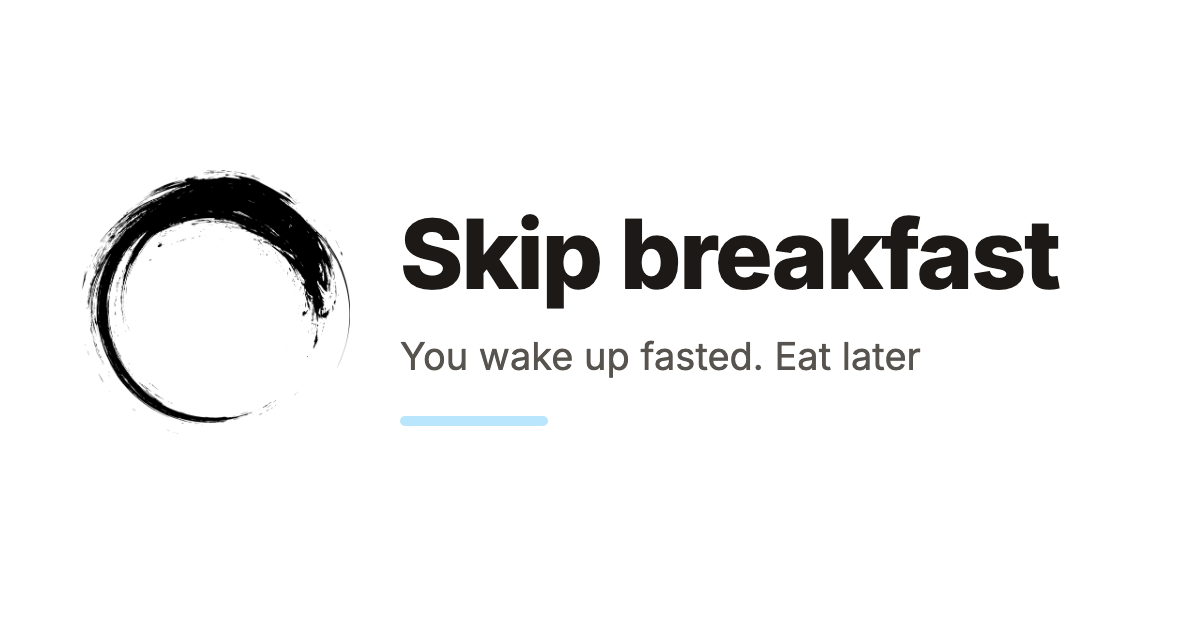
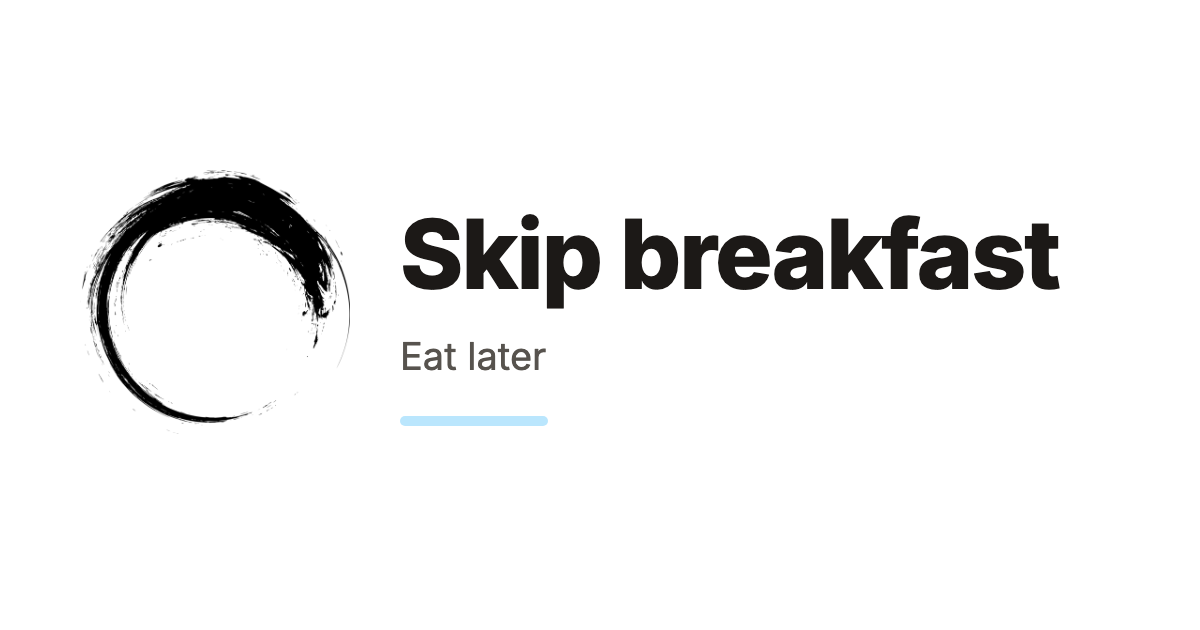
build

Changed region(s): [[0.3392, 0.5429, 0.7708, 0.6032]]

diff --git a/ru/skip-breakfast.html b/ru/skip-breakfast.html
@@ -18,8 +18,8 @@
 <title>Пропусти завтрак | tellothers.com</title>
 <meta property="og:title" content="Пропусти завтрак" />
 <meta property="og:locale" content="ru_RU" />
-<meta name="description" content="Просыпаешься в посте. Поешь позже. Дети не хотят есть утром. Мы их тренируем — как Павлов собак, углеводами. Потом они вырастают и «без завтрака не могут»." />
-<meta property="og:description" content="Просыпаешься в посте. Поешь позже. Дети не хотят есть утром. Мы их тренируем — как Павлов собак, углеводами. Потом они вырастают и «без завтрака не могут»." />
+<meta name="description" content="Поешь позже. Дети не хотят есть утром. Мы их тренируем — как Павлов собак, углеводами. Потом они вырастают и «без завтрака не могут». Сдвинь обед на пару часов." />
+<meta property="og:description" content="Поешь позже. Дети не хотят есть утром. Мы их тренируем — как Павлов собак, углеводами. Потом они вырастают и «без завтрака не могут». Сдвинь обед на пару часов." />
 <link rel="canonical" href="https://tellothers.com/ru/skip-breakfast" />
 <meta property="og:url" content="https://tellothers.com/ru/skip-breakfast" />
 <meta property="og:site_name" content="tellothers.com" />
@@ -99,7 +99,7 @@
     </h1>
 
       <p class="text-lg sm:text-xl text-stone-500 leading-snug">
-        Просыпаешься в посте. Поешь позже
+        Поешь позже
       </p>
   </header>
 
@@ -131,12 +131,12 @@
   "@type": "Article",
   "name": "Пропусти завтрак",
   "headline": "Пропусти завтрак",
-  "description": "Просыпаешься в посте. Поешь позже",
+  "description": "Поешь позже",
   "url": "https://tellothers.com/ru/skip-breakfast",
   "mainEntityOfPage": "https://tellothers.com/ru/skip-breakfast",
   "image": "https://tellothers.com/images/og/skip-breakfast.ru.png",
   "datePublished": "2026-06-15T17:55:05+07:00",
-  "dateModified": "2026-10-08T11:51:52+07:00",
+  "dateModified": "2026-10-26T15:48:37+07:00",
   "inLanguage": "ru",
   "isPartOf": {
     "@type": "WebSite",

diff --git a/ru/money-flow.html b/ru/money-flow.html
@@ -18,8 +18,8 @@
 <title>Деньги не кончатся | tellothers.com</title>
 <meta property="og:title" content="Деньги не кончатся" />
 <meta property="og:locale" content="ru_RU" />
-<meta name="description" content="Считай, что к тебе плывёт. Говорят: денежный поток. Что за поток такой? Представь реку. Течение идёт тебе навстречу, это время." />
-<meta property="og:description" content="Считай, что к тебе плывёт. Говорят: денежный поток. Что за поток такой? Представь реку. Течение идёт тебе навстречу, это время." />
+<meta name="description" content="Что к тебе несёт поток. Говорят: денежный поток. Что за поток такой? Представь реку. Течение идёт тебе навстречу, это время." />
+<meta property="og:description" content="Что к тебе несёт поток. Говорят: денежный поток. Что за поток такой? Представь реку. Течение идёт тебе навстречу, это время." />
 <link rel="canonical" href="https://tellothers.com/ru/money-flow" />
 <meta property="og:url" content="https://tellothers.com/ru/money-flow" />
 <meta property="og:site_name" content="tellothers.com" />
@@ -99,7 +99,7 @@
     </h1>
 
       <p class="text-lg sm:text-xl text-stone-500 leading-snug">
-        Считай, что к тебе плывёт
+        Что к тебе несёт поток
       </p>
   </header>
 
@@ -139,12 +139,12 @@
   "@type": "Article",
   "name": "Деньги не кончатся",
   "headline": "Деньги не кончатся",
-  "description": "Считай, что к тебе плывёт",
+  "description": "Что к тебе несёт поток",
   "url": "https://tellothers.com/ru/money-flow",
   "mainEntityOfPage": "https://tellothers.com/ru/money-flow",
   "image": "https://tellothers.com/images/og/money-flow.ru.png",
   "datePublished": "2026-08-13T16:08:55+07:00",
-  "dateModified": "2026-10-21T18:38:47+07:00",
+  "dateModified": "2026-10-26T15:48:37+07:00",
   "inLanguage": "ru",
   "isPartOf": {
     "@type": "WebSite",

diff --git a/skip-breakfast.html b/skip-breakfast.html
@@ -18,8 +18,8 @@
 <title>Skip breakfast | tellothers.com</title>
 <meta property="og:title" content="Skip breakfast" />
 <meta property="og:locale" content="en_US" />
-<meta name="description" content="You wake up fasted. Eat later. Kids don&#39;t want to eat in the morning. We train them — like Pavlov&#39;s dog, with carbs. Then they grow up &quot;needing breakfast.&quot;" />
-<meta property="og:description" content="You wake up fasted. Eat later. Kids don&#39;t want to eat in the morning. We train them — like Pavlov&#39;s dog, with carbs. Then they grow up &quot;needing breakfast.&quot;" />
+<meta name="description" content="Eat later. Kids don&#39;t want to eat in the morning. We train them — like Pavlov&#39;s dog, with carbs. Then they grow up &quot;needing breakfast.&quot;" />
+<meta property="og:description" content="Eat later. Kids don&#39;t want to eat in the morning. We train them — like Pavlov&#39;s dog, with carbs. Then they grow up &quot;needing breakfast.&quot;" />
 <link rel="canonical" href="https://tellothers.com/skip-breakfast" />
 <meta property="og:url" content="https://tellothers.com/skip-breakfast" />
 <meta property="og:site_name" content="tellothers.com" />
@@ -99,7 +99,7 @@
     </h1>
 
       <p class="text-lg sm:text-xl text-stone-500 leading-snug">
-        You wake up fasted. Eat later
+        Eat later
       </p>
   </header>
 
@@ -131,12 +131,12 @@
   "@type": "Article",
   "name": "Skip breakfast",
   "headline": "Skip breakfast",
-  "description": "You wake up fasted. Eat later",
+  "description": "Eat later",
   "url": "https://tellothers.com/skip-breakfast",
   "mainEntityOfPage": "https://tellothers.com/skip-breakfast",
   "image": "https://tellothers.com/images/og/skip-breakfast.en.png",
   "datePublished": "2026-06-15T17:55:05+07:00",
-  "dateModified": "2026-10-22T16:16:58+07:00",
+  "dateModified": "2026-10-26T15:48:37+07:00",
   "inLanguage": "en",
   "isPartOf": {
     "@type": "WebSite",

diff --git a/money-flow.html b/money-flow.html
@@ -18,8 +18,8 @@
 <title>Money won’t stop | tellothers.com</title>
 <meta property="og:title" content="Money won’t stop" />
 <meta property="og:locale" content="en_US" />
-<meta name="description" content="Count what is floating toward you. People say cash flow. What flow? Picture a river. The current runs toward you, and the current is time." />
-<meta property="og:description" content="Count what is floating toward you. People say cash flow. What flow? Picture a river. The current runs toward you, and the current is time." />
+<meta name="description" content="What the flow brings you. People say cash flow. What flow? Picture a river. The current runs toward you, and the current is time." />
+<meta property="og:description" content="What the flow brings you. People say cash flow. What flow? Picture a river. The current runs toward you, and the current is time." />
 <link rel="canonical" href="https://tellothers.com/money-flow" />
 <meta property="og:url" content="https://tellothers.com/money-flow" />
 <meta property="og:site_name" content="tellothers.com" />
@@ -99,7 +99,7 @@
     </h1>
 
       <p class="text-lg sm:text-xl text-stone-500 leading-snug">
-        Count what is floating toward you
+        What the flow brings you
       </p>
   </header>
 
@@ -139,12 +139,12 @@
   "@type": "Article",
   "name": "Money won't stop",
   "headline": "Money won't stop",
-  "description": "Count what is floating toward you",
+  "description": "What the flow brings you",
   "url": "https://tellothers.com/money-flow",
   "mainEntityOfPage": "https://tellothers.com/money-flow",
   "image": "https://tellothers.com/images/og/money-flow.en.png",
   "datePublished": "2026-08-13T16:08:55+07:00",
-  "dateModified": "2026-10-21T18:38:47+07:00",
+  "dateModified": "2026-10-26T15:48:37+07:00",
   "inLanguage": "en",
   "isPartOf": {
     "@type": "WebSite",

diff --git a/ru/index.html b/ru/index.html
@@ -25,7 +25,7 @@
 <meta property="og:site_name" content="tellothers.com" />
 <meta property="og:image" content="https://tellothers.com/images/og-ru.png" />
 <meta property="og:type" content="article" />
-<meta property="article:published_time" content="2026-10-26T01:47:38-07:00" />
+<meta property="article:published_time" content="2026-10-26T01:48:42-07:00" />
 <meta name="twitter:card" content="summary_large_image" />
 <meta property="twitter:image" content="https://tellothers.com/images/og-ru.png" />
 <meta property="twitter:title" content="Сработало? Скажи другим." />
@@ -199,7 +199,7 @@
 
     <a href="/ru/money-flow" class="group block no-underline rounded-lg hover:bg-white p-4 transition-all duration-700 ease-out hover:shadow-lg hover:shadow-stone-900/5">
   <div class="font-sans font-bold text-stone-800 group-hover:text-stone-950 transition duration-700">Деньги не кончатся</div>
-    <div class="mt-1 text-sm text-stone-600 leading-snug transition duration-700">Считай, что к тебе плывёт</div>
+    <div class="mt-1 text-sm text-stone-600 leading-snug transition duration-700">Что к тебе несёт поток</div>
 </a>
 
 
@@ -240,7 +240,7 @@
 
     <a href="/ru/skip-breakfast" class="group block no-underline rounded-lg hover:bg-white p-4 transition-all duration-700 ease-out hover:shadow-lg hover:shadow-stone-900/5">
   <div class="font-sans font-bold text-stone-800 group-hover:text-stone-950 transition duration-700">Пропусти завтрак</div>
-    <div class="mt-1 text-sm text-stone-600 leading-snug transition duration-700">Просыпаешься в посте. Поешь позже</div>
+    <div class="mt-1 text-sm text-stone-600 leading-snug transition duration-700">Поешь позже</div>
 </a>
 
 

diff --git a/index.html b/index.html
@@ -25,7 +25,7 @@
 <meta property="og:site_name" content="tellothers.com" />
 <meta property="og:image" content="https://tellothers.com/images/og-en.png" />
 <meta property="og:type" content="article" />
-<meta property="article:published_time" content="2026-10-26T01:47:38-07:00" />
+<meta property="article:published_time" content="2026-10-26T01:48:42-07:00" />
 <meta name="twitter:card" content="summary_large_image" />
 <meta property="twitter:image" content="https://tellothers.com/images/og-en.png" />
 <meta property="twitter:title" content="It worked? Tell others." />
@@ -199,7 +199,7 @@
 
     <a href="/money-flow" class="group block no-underline rounded-lg hover:bg-white p-4 transition-all duration-700 ease-out hover:shadow-lg hover:shadow-stone-900/5">
   <div class="font-sans font-bold text-stone-800 group-hover:text-stone-950 transition duration-700">Money won&#39;t stop</div>
-    <div class="mt-1 text-sm text-stone-600 leading-snug transition duration-700">Count what is floating toward you</div>
+    <div class="mt-1 text-sm text-stone-600 leading-snug transition duration-700">What the flow brings you</div>
 </a>
 
 
@@ -240,7 +240,7 @@
 
     <a href="/skip-breakfast" class="group block no-underline rounded-lg hover:bg-white p-4 transition-all duration-700 ease-out hover:shadow-lg hover:shadow-stone-900/5">
   <div class="font-sans font-bold text-stone-800 group-hover:text-stone-950 transition duration-700">Skip breakfast</div>
-    <div class="mt-1 text-sm text-stone-600 leading-snug transition duration-700">You wake up fasted. Eat later</div>
+    <div class="mt-1 text-sm text-stone-600 leading-snug transition duration-700">Eat later</div>
 </a>
 
 

diff --git a/ru/sit-still.html b/ru/sit-still.html
@@ -161,7 +161,7 @@
       <div class="grid sm:grid-cols-2 gap-3 -mx-4">
             <a href="/ru/skip-breakfast" class="group block no-underline rounded-lg hover:bg-white p-4 transition-all duration-700 ease-out hover:shadow-lg hover:shadow-stone-900/5">
   <div class="font-sans font-bold text-stone-800 group-hover:text-stone-950 transition duration-700">Пропусти завтрак</div>
-    <div class="mt-1 text-sm text-stone-600 leading-snug transition duration-700">Просыпаешься в посте. Поешь позже</div>
+    <div class="mt-1 text-sm text-stone-600 leading-snug transition duration-700">Поешь позже</div>
 </a>
 
             <a href="/ru/try-freediving" class="group block no-underline rounded-lg hover:bg-white p-4 transition-all duration-700 ease-out hover:shadow-lg hover:shadow-stone-900/5">

diff --git a/ru/try-freediving.html b/ru/try-freediving.html
@@ -164,7 +164,7 @@
 
             <a href="/ru/skip-breakfast" class="group block no-underline rounded-lg hover:bg-white p-4 transition-all duration-700 ease-out hover:shadow-lg hover:shadow-stone-900/5">
   <div class="font-sans font-bold text-stone-800 group-hover:text-stone-950 transition duration-700">Пропусти завтрак</div>
-    <div class="mt-1 text-sm text-stone-600 leading-snug transition duration-700">Просыпаешься в посте. Поешь позже</div>
+    <div class="mt-1 text-sm text-stone-600 leading-snug transition duration-700">Поешь позже</div>
 </a>
 
             <a href="/ru/all-for-the-brain" class="group block no-underline rounded-lg hover:bg-white p-4 transition-all duration-700 ease-out hover:shadow-lg hover:shadow-stone-900/5">

diff --git a/ru/body-friend.html b/ru/body-friend.html
@@ -152,7 +152,7 @@
 
             <a href="/ru/skip-breakfast" class="group block no-underline rounded-lg hover:bg-white p-4 transition-all duration-700 ease-out hover:shadow-lg hover:shadow-stone-900/5">
   <div class="font-sans font-bold text-stone-800 group-hover:text-stone-950 transition duration-700">Пропусти завтрак</div>
-    <div class="mt-1 text-sm text-stone-600 leading-snug transition duration-700">Просыпаешься в посте. Поешь позже</div>
+    <div class="mt-1 text-sm text-stone-600 leading-snug transition duration-700">Поешь позже</div>
 </a>
 
             <a href="/ru/dont-drink" class="group block no-underline rounded-lg hover:bg-white p-4 transition-all duration-700 ease-out hover:shadow-lg hover:shadow-stone-900/5">

diff --git a/ru/generation-p.html b/ru/generation-p.html
@@ -150,7 +150,7 @@
 
             <a href="/ru/money-flow" class="group block no-underline rounded-lg hover:bg-white p-4 transition-all duration-700 ease-out hover:shadow-lg hover:shadow-stone-900/5">
   <div class="font-sans font-bold text-stone-800 group-hover:text-stone-950 transition duration-700">Деньги не кончатся</div>
-    <div class="mt-1 text-sm text-stone-600 leading-snug transition duration-700">Считай, что к тебе плывёт</div>
+    <div class="mt-1 text-sm text-stone-600 leading-snug transition duration-700">Что к тебе несёт поток</div>
 </a>
 
             <a href="/ru/my-world" class="group block no-underline rounded-lg hover:bg-white p-4 transition-all duration-700 ease-out hover:shadow-lg hover:shadow-stone-900/5">

diff --git a/sit-still.html b/sit-still.html
@@ -161,7 +161,7 @@
       <div class="grid sm:grid-cols-2 gap-3 -mx-4">
             <a href="/skip-breakfast" class="group block no-underline rounded-lg hover:bg-white p-4 transition-all duration-700 ease-out hover:shadow-lg hover:shadow-stone-900/5">
   <div class="font-sans font-bold text-stone-800 group-hover:text-stone-950 transition duration-700">Skip breakfast</div>
-    <div class="mt-1 text-sm text-stone-600 leading-snug transition duration-700">You wake up fasted. Eat later</div>
+    <div class="mt-1 text-sm text-stone-600 leading-snug transition duration-700">Eat later</div>
 </a>
 
             <a href="/try-freediving" class="group block no-underline rounded-lg hover:bg-white p-4 transition-all duration-700 ease-out hover:shadow-lg hover:shadow-stone-900/5">

diff --git a/generation-p.html b/generation-p.html
@@ -150,7 +150,7 @@
 
             <a href="/money-flow" class="group block no-underline rounded-lg hover:bg-white p-4 transition-all duration-700 ease-out hover:shadow-lg hover:shadow-stone-900/5">
   <div class="font-sans font-bold text-stone-800 group-hover:text-stone-950 transition duration-700">Money won&#39;t stop</div>
-    <div class="mt-1 text-sm text-stone-600 leading-snug transition duration-700">Count what is floating toward you</div>
+    <div class="mt-1 text-sm text-stone-600 leading-snug transition duration-700">What the flow brings you</div>
 </a>
 
             <a href="/my-world" class="group block no-underline rounded-lg hover:bg-white p-4 transition-all duration-700 ease-out hover:shadow-lg hover:shadow-stone-900/5">
